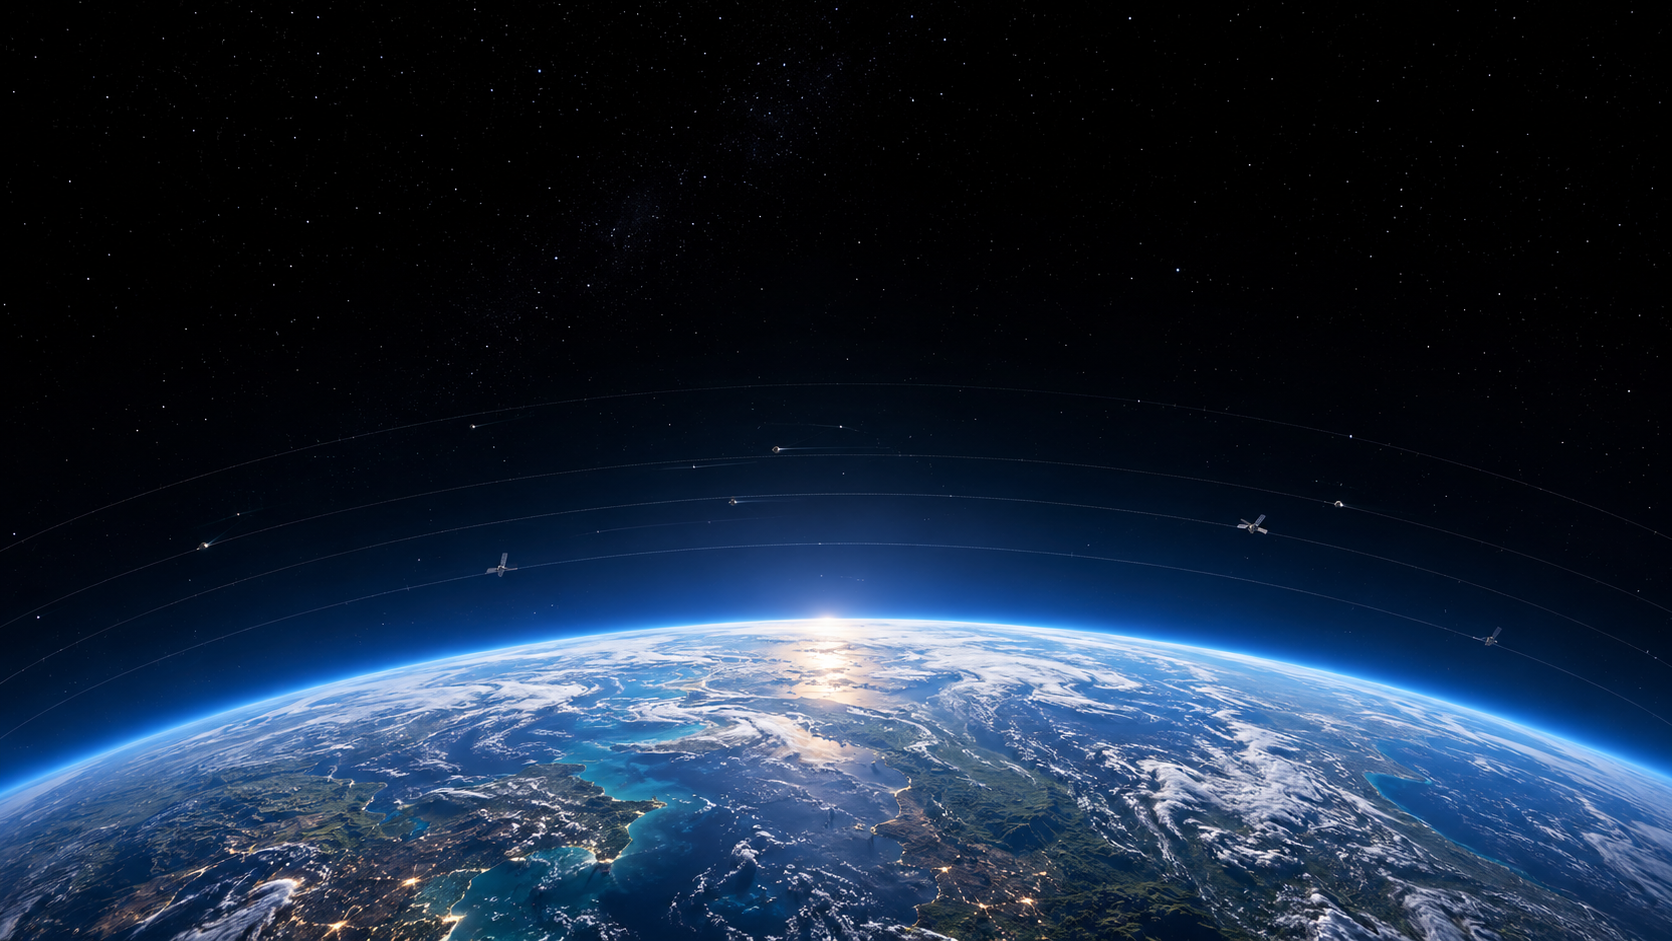
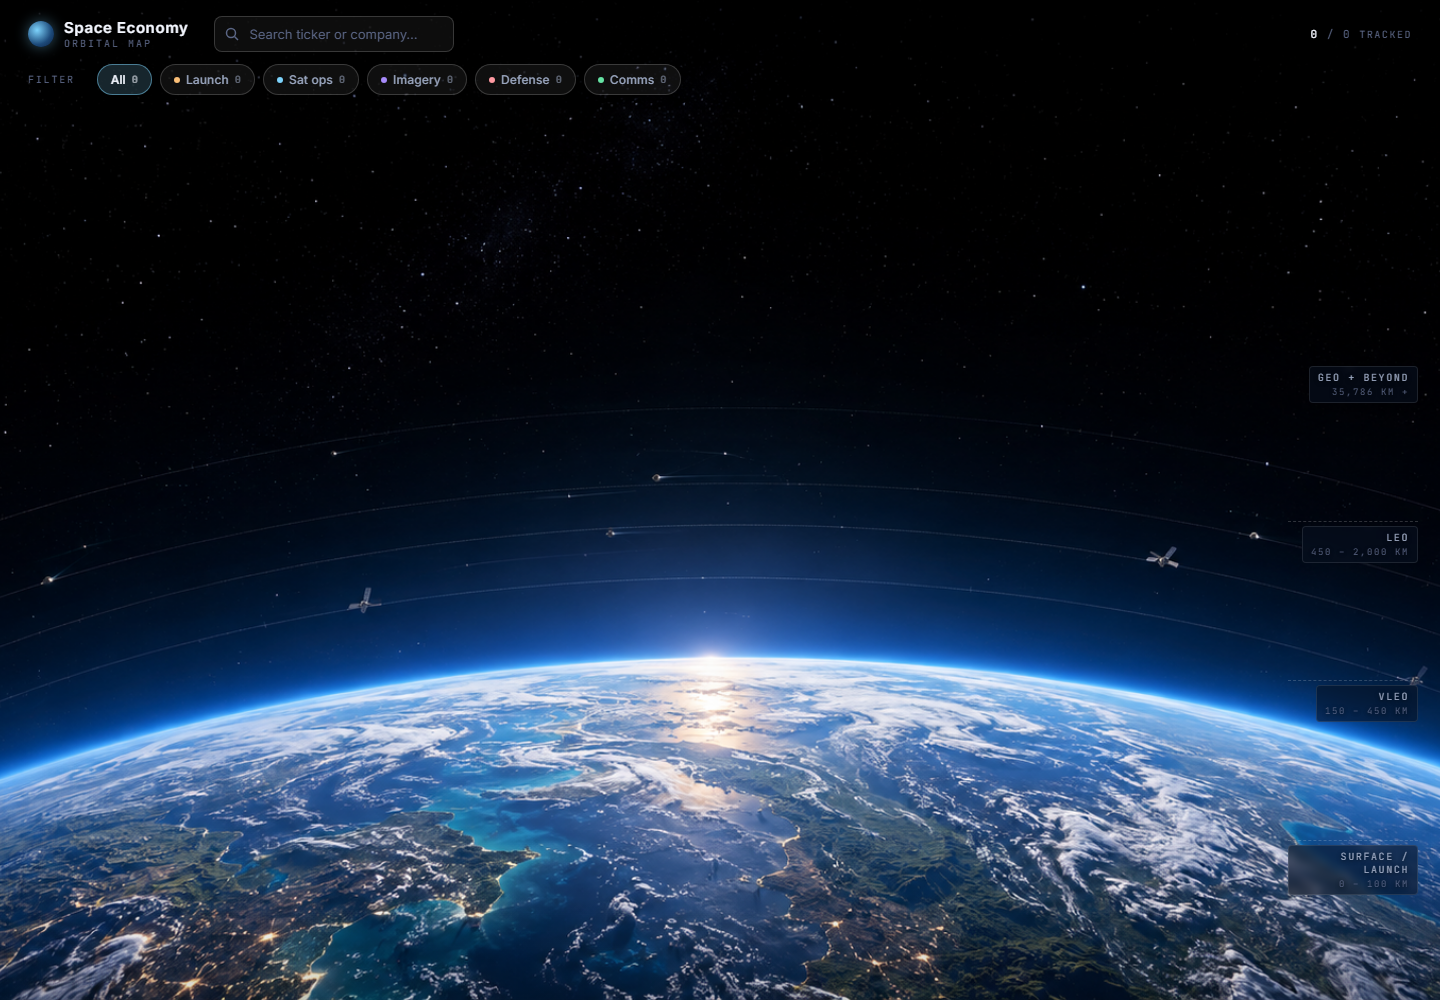
Use site screenshots for project cards

diff --git a/src/Components/MainPage.jsx b/src/Components/MainPage.jsx
@@ -41,7 +41,7 @@ const MainPage = () => {
                 <img
                   src="/projects/trisha-cover.jpg"
                   alt="Trisha Gonzalez Barber website preview"
-                  className="w-full relative"
+                  className="w-full h-72 object-contain bg-white relative"
                 />
               </a>
             </div>
@@ -67,7 +67,7 @@ const MainPage = () => {
                 <img
                   src="/projects/oldmanphams.jpg"
                   alt="Old Man Pham's Lawn Care website preview"
-                  className="w-full relative"
+                  className="w-full h-72 object-contain bg-white relative"
                 />
               </a>
             </div>

diff --git a/src/Components/Header.jsx b/src/Components/Header.jsx
@@ -39,11 +39,6 @@ const Header = () => {
             <li>
               <button className="border-[1.5px] border-black text-xl p-2 hover:bg-primary mr-2" onClick={() => navigateTo("/blog")}>Blog</button>
             </li>
-            <li>
-              <button className="border-[1.5px] border-black text-xl p-2 hover:bg-primary mr-2" onClick={() => window.location.href ="https://spaceeconomy.app/"}>
-                Space Economy
-              </button>
-            </li>
           </ul>
         </div>
       </div>

diff --git a/src/Components/ProjectCard.jsx b/src/Components/ProjectCard.jsx
@@ -19,7 +19,7 @@ const ProjectCard = ({ title, description, img, link, skills }) => {
         <img
           src={img}
           alt={title}
-          className=" object-cover w-full h-48 cursor-pointer"
+          className="object-contain w-full h-48 cursor-pointer bg-white border border-black"
           onClick={navigate}
         />
       </figure>
